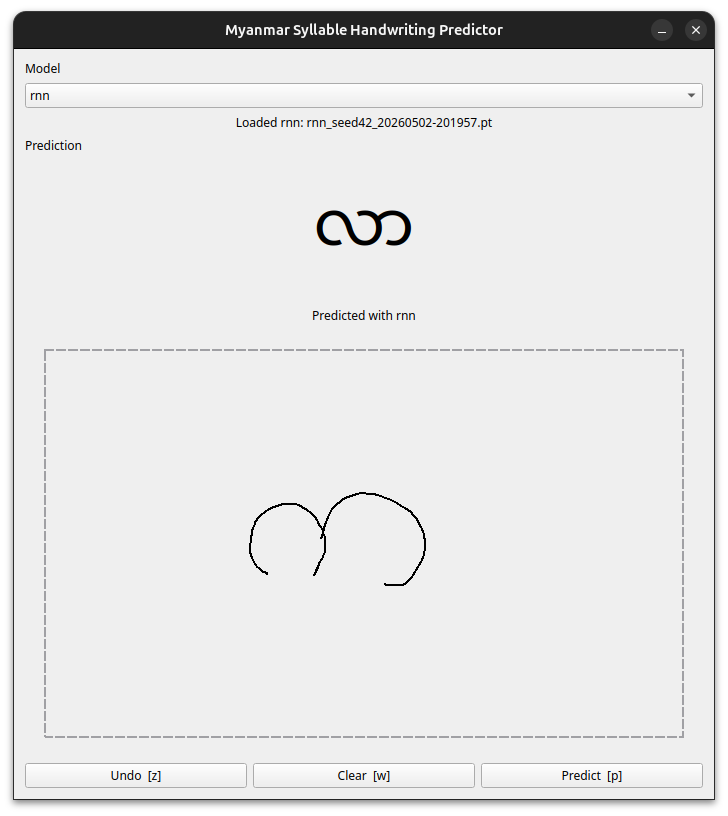
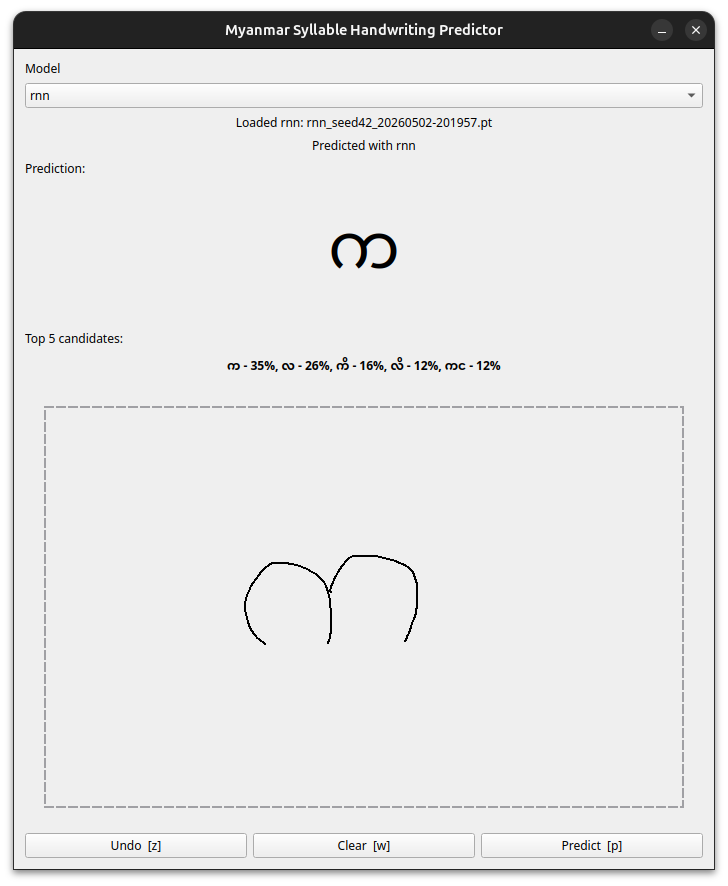
update interactive test to include top 5 candidates

diff --git a/model/metrics.py b/model/metrics.py
@@ -1,6 +1,17 @@
 from __future__ import annotations
 
+import math
 from typing import List, Sequence, Tuple
+
+
+def _logaddexp(a: float, b: float) -> float:
+    if a == float("-inf"):
+        return b
+    if b == float("-inf"):
+        return a
+    if a > b:
+        return a + math.log1p(math.exp(b - a))
+    return b + math.log1p(math.exp(a - b))
 
 
 def _levenshtein(a: Sequence[str], b: Sequence[str]) -> Tuple[int, int, int]:
@@ -99,4 +110,99 @@ def ctc_greedy_decode(
                     collapsed.append(int(s))
             out.append(collapsed)
         return out
+
+
+def ctc_beam_decode_topk(
+    log_probs_TBC,
+    lengths,
+    *,
+    blank_id: int = 0,
+    beam_size: int = 10,
+    top_k: int = 5,
+) -> List[List[Tuple[List[int], float]]]:
+    """
+    CTC prefix beam search.
+
+    log_probs_TBC: (T,B,C) log-probs
+    lengths: (B,) input lengths
+    returns per-batch list of (id_sequence, probability) up to top_k items
+    """
+    import torch
+
+    with torch.no_grad():
+        log_probs = log_probs_TBC.detach().cpu()
+        batch_out: List[List[Tuple[List[int], float]]] = []
+
+        for b in range(log_probs.shape[1]):
+            t_len = int(lengths[b].item())
+            frame_logp = log_probs[:t_len, b, :]
+            num_classes = frame_logp.shape[1]
+
+            # prefix -> (log_prob_blank_end, log_prob_non_blank_end)
+            beam: dict[tuple[int, ...], Tuple[float, float]] = {(): (0.0, float("-inf"))}
+
+            for t in range(t_len):
+                next_beam: dict[tuple[int, ...], Tuple[float, float]] = {}
+                for prefix, (lp_b, lp_nb) in beam.items():
+                    lp_prefix = _logaddexp(lp_b, lp_nb)
+                    for c in range(num_classes):
+                        lp = float(frame_logp[t, c].item())
+                        if c == blank_id:
+                            nb_b, nb_nb = next_beam.get(prefix, (float("-inf"), float("-inf")))
+                            next_beam[prefix] = (_logaddexp(nb_b, lp + lp_prefix), nb_nb)
+                        elif prefix and c == prefix[-1]:
+                            nb_b, nb_nb = next_beam.get(prefix, (float("-inf"), float("-inf")))
+                            next_beam[prefix] = (nb_b, _logaddexp(nb_nb, lp + lp_b))
+                            new_prefix = prefix + (c,)
+                            nb_b2, nb_nb2 = next_beam.get(
+                                new_prefix, (float("-inf"), float("-inf"))
+                            )
+                            next_beam[new_prefix] = (
+                                nb_b2,
+                                _logaddexp(nb_nb2, lp + lp_nb),
+                            )
+                        else:
+                            new_prefix = prefix + (c,)
+                            nb_b, nb_nb = next_beam.get(
+                                new_prefix, (float("-inf"), float("-inf"))
+                            )
+                            next_beam[new_prefix] = (
+                                nb_b,
+                                _logaddexp(nb_nb, lp + lp_prefix),
+                            )
+
+                ranked = sorted(
+                    (
+                        (pfx, _logaddexp(lp_b, lp_nb))
+                        for pfx, (lp_b, lp_nb) in next_beam.items()
+                    ),
+                    key=lambda item: item[1],
+                    reverse=True,
+                )
+                beam = {
+                    pfx: next_beam[pfx]
+                    for pfx, _ in ranked[:beam_size]
+                }
+
+            finals = sorted(
+                (
+                    (list(pfx), _logaddexp(lp_b, lp_nb))
+                    for pfx, (lp_b, lp_nb) in beam.items()
+                ),
+                key=lambda item: item[1],
+                reverse=True,
+            )[:top_k]
+
+            if not finals:
+                batch_out.append([])
+                continue
+
+            max_log = finals[0][1]
+            weights = [math.exp(score - max_log) for _, score in finals]
+            total = sum(weights) or 1.0
+            batch_out.append(
+                [(ids, weight / total) for (ids, _), weight in zip(finals, weights)]
+            )
+
+        return batch_out
 

diff --git a/hw_predictor.py b/hw_predictor.py
@@ -29,11 +29,12 @@ from PyQt5.QtWidgets import (
 from hw_collector import DrawingWidget
 from main import make_model
 from model.data import build_codec_from_labels_file, strokes_to_features
-from model.metrics import ctc_greedy_decode
+from model.metrics import ctc_beam_decode_topk
 
 INPUT_SIZE = 6
 WINDOW_WIDTH = 700
-WINDOW_HEIGHT = 750
+WINDOW_HEIGHT = 820
+TOP_K = 5
 
 
 def resolve_checkpoint(path_or_hf: str, *, hf_token: str | None = None) -> str:
@@ -95,7 +96,7 @@ class StrokePredictor:
         self.model_name = cfg.model
         self.checkpoint_path = checkpoint_path
 
-    def predict(self, strokes) -> str:
+    def predict_topk(self, strokes, *, top_k: int = TOP_K) -> list[tuple[str, float]]:
         feats = strokes_to_features(strokes)
         if feats.shape[0] == 0:
             raise ValueError("empty drawing")
@@ -106,10 +107,21 @@ class StrokePredictor:
         with torch.no_grad():
             logp = self.model(x, xlen)
 
-        pred_ids = ctc_greedy_decode(
-            logp, xlen, blank_id=self.codec.blank_id
+        decoded = ctc_beam_decode_topk(
+            logp,
+            xlen,
+            blank_id=self.codec.blank_id,
+            beam_size=max(10, top_k * 2),
+            top_k=top_k,
         )[0]
-        return self.codec.decode_ids(pred_ids)
+        return [
+            (self.codec.decode_ids(ids), prob)
+            for ids, prob in decoded
+        ]
+
+    def predict(self, strokes) -> str:
+        topk = self.predict_topk(strokes, top_k=1)
+        return topk[0][0] if topk else ""
 
 
 class ModelLoadWorker(QThread):
@@ -179,6 +191,11 @@ class PredictorWindow(QWidget):
         self.prediction_label.setAlignment(Qt.AlignCenter)
         self.prediction_label.setFont(QFont("Noto Sans Myanmar", font_size))
 
+        self.topk_label = QLabel("")
+        self.topk_label.setAlignment(Qt.AlignCenter)
+        self.topk_label.setWordWrap(True)
+        self.topk_label.setMinimumHeight(28)
+
         self.status_label = QLabel("")
         self.status_label.setAlignment(Qt.AlignCenter)
 
@@ -196,6 +213,11 @@ class PredictorWindow(QWidget):
         self.predict_btn.clicked.connect(self.predict)
         self.model_combo.currentTextChanged.connect(self.on_model_changed)
 
+        topk_font = QFont(self.predict_btn.font())
+        topk_font.setBold(True)
+        topk_font.setFamily("Noto Sans Myanmar")
+        self.topk_label.setFont(topk_font)
+
         controls = QHBoxLayout()
         controls.addWidget(undo_btn)
         controls.addWidget(clear_btn)
@@ -205,9 +227,11 @@ class PredictorWindow(QWidget):
         layout.addWidget(QLabel("Model"))
         layout.addWidget(self.model_combo)
         layout.addWidget(self.model_status)
-        layout.addWidget(QLabel("Prediction"))
-        layout.addWidget(self.prediction_label)
         layout.addWidget(self.status_label)
+        layout.addWidget(QLabel("Prediction:"))
+        layout.addWidget(self.prediction_label)
+        layout.addWidget(QLabel(f"Top {TOP_K} candidates:"))
+        layout.addWidget(self.topk_label)
         layout.addWidget(self.canvas, stretch=1)
         layout.addLayout(controls)
         self.setLayout(layout)
@@ -228,10 +252,11 @@ class PredictorWindow(QWidget):
         p = self.predictors[name]
         ckpt_name = os.path.basename(p.local_checkpoint_path)
         self.model_status.setText(f"Loaded {name}: {ckpt_name}")
-        self.model_status.setToolTip(p.local_checkpoint_path)
-        self.status_label.setText(
+        self.model_status.setToolTip(
+            f"{p.local_checkpoint_path}\n"
             f"vocab={p.codec.vocab_size} chars, device={self.device}"
         )
+        self.status_label.setText("")
         self.predict_btn.setEnabled(True)
 
     def load_current_model(self) -> None:
@@ -281,7 +306,18 @@ class PredictorWindow(QWidget):
 
     def on_model_changed(self, _name: str) -> None:
         self.prediction_label.setText("—")
+        self.topk_label.setText("")
+        self.status_label.setText("")
         self.load_current_model()
+
+    def _format_topk(self, topk: list[tuple[str, float]]) -> str:
+        if not topk:
+            return "—"
+        parts = []
+        for text, prob in topk:
+            label = text if text else "∅"
+            parts.append(f"{label} - {prob * 100:.0f}%")
+        return ", ".join(parts)
 
     def predict(self) -> None:
         if not self.canvas.strokes:
@@ -293,8 +329,10 @@ class PredictorWindow(QWidget):
             QMessageBox.warning(self, "Error", f"{name} still loading — please wait")
             return
         try:
-            pred = self.predictors[name].predict(self.canvas.strokes)
-            self.prediction_label.setText(pred or "—")
+            topk = self.predictors[name].predict_topk(self.canvas.strokes)
+            best = topk[0][0] if topk else ""
+            self.prediction_label.setText(best or "—")
+            self.topk_label.setText(self._format_topk(topk))
             self.status_label.setText(f"Predicted with {name}")
         except Exception as e:
             QMessageBox.critical(self, "Predict error", str(e))